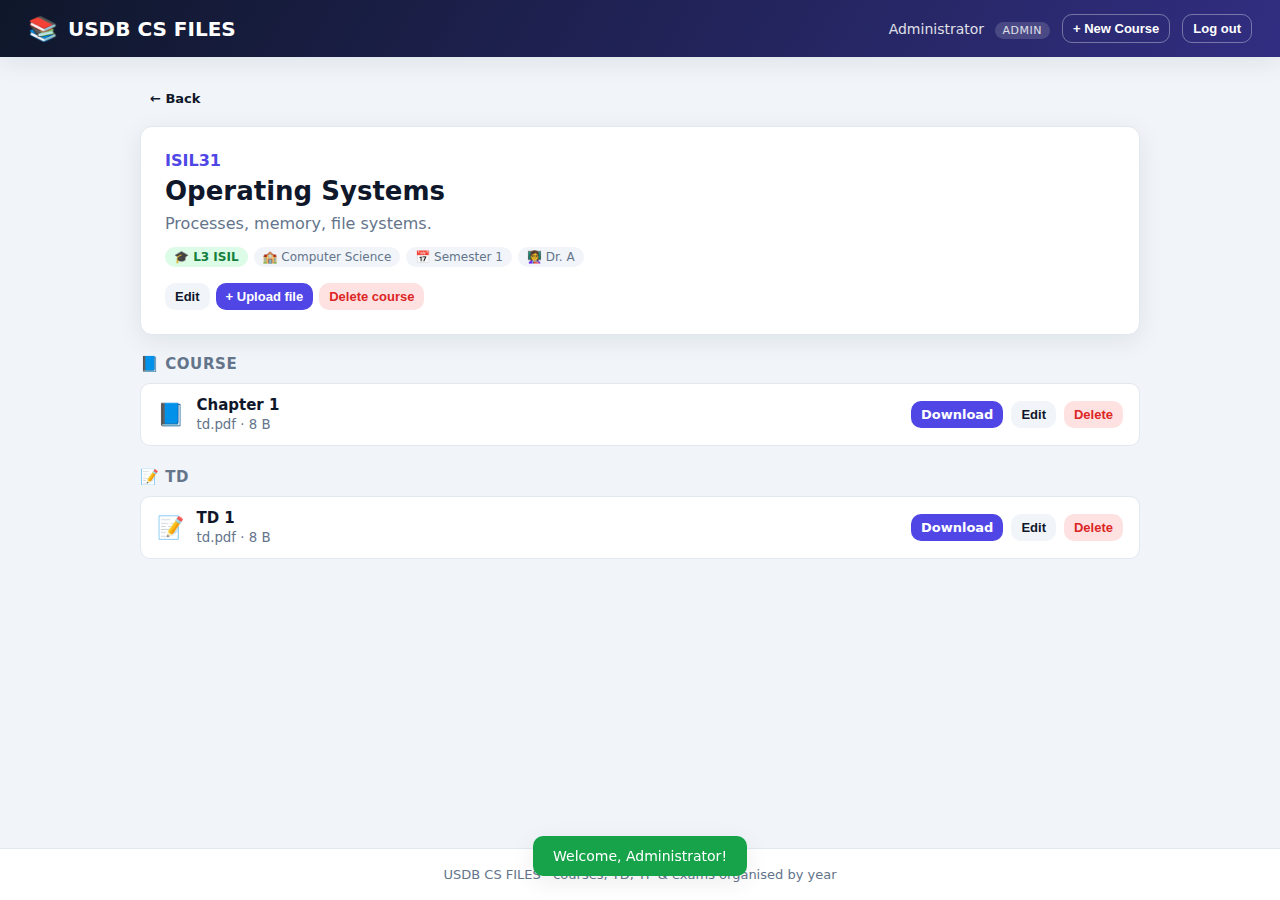
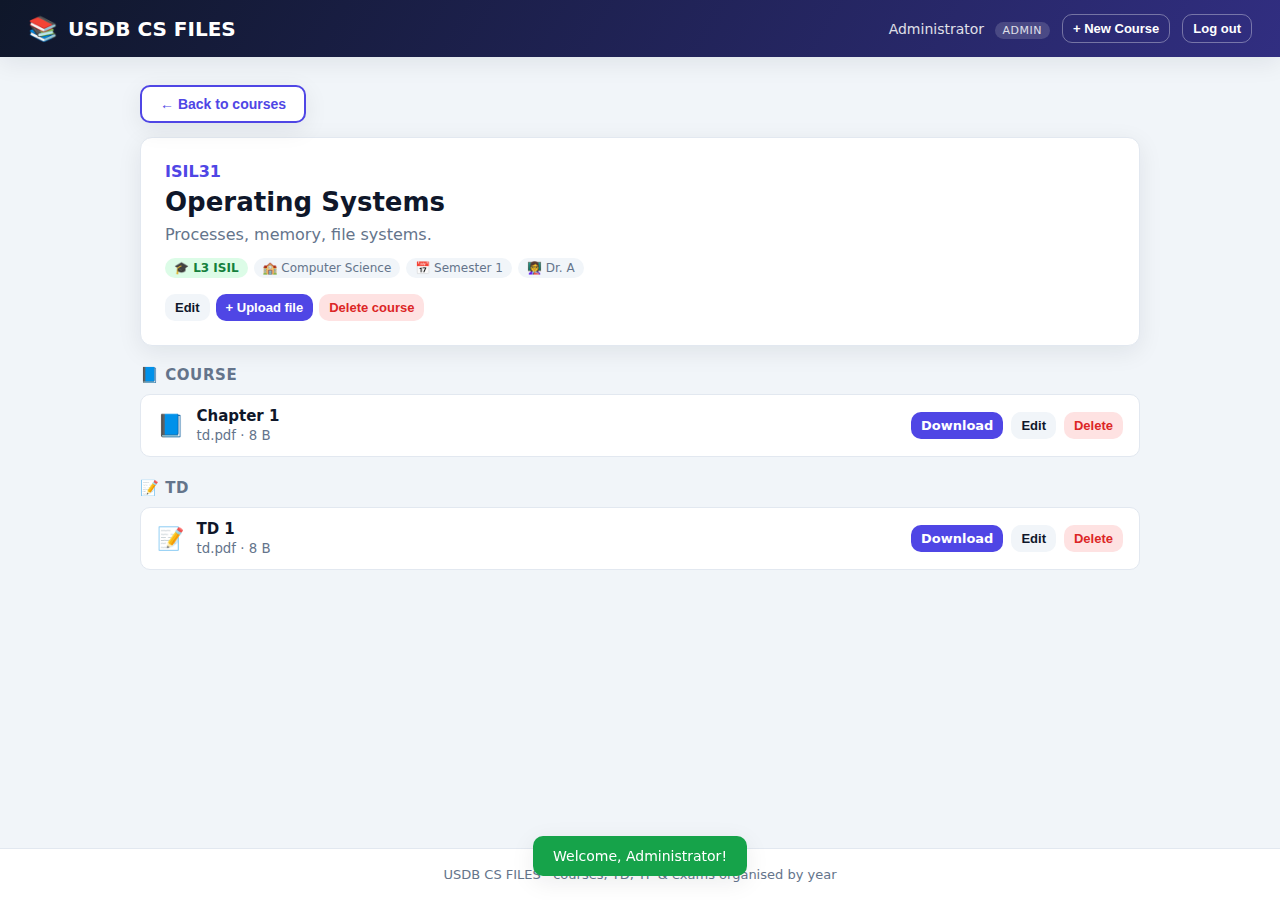
Make the course-page back button more noticeable
Restyle it as a bordered "← Back to courses" button (primary colour, shadow,
hover fill) instead of a plain gray chip that blended in.

Claude-Session: https://claude.ai/code/session_0173VNWMUz61Wkum7mt6QUXe

diff --git a/public/styles.css b/public/styles.css
@@ -122,6 +122,17 @@ body {
 .btn-danger { background: #fee2e2; color: var(--danger); }
 .btn-danger:hover { background: #fecaca; }
 .btn-sm { padding: 6px 10px; font-size: 13px; }
+
+/* Prominent "back to courses" button on the course page */
+.btn-back {
+  background: #fff;
+  color: var(--primary);
+  border: 2px solid var(--primary);
+  font-weight: 700;
+  padding: 9px 18px;
+  box-shadow: var(--shadow);
+}
+.btn-back:hover { background: var(--primary); color: #fff; }
 .btn-block { width: 100%; justify-content: center; }
 
 /* ---------- Cards / grid ---------- */

diff --git a/public/app.js b/public/app.js
@@ -240,7 +240,7 @@ async function renderCourse(id) {
   }
   const { course, files } = data;
 
-  const back = '<a class="btn btn-sm" id="back">← Back</a>';
+  const back = '<button class="btn btn-back" id="back">← Back to courses</button>';
   const adminBtns = isAdmin()
     ? `<button class="btn btn-sm" id="editCourse">Edit</button>
        <button class="btn btn-sm btn-primary" id="uploadFile">+ Upload file</button>
